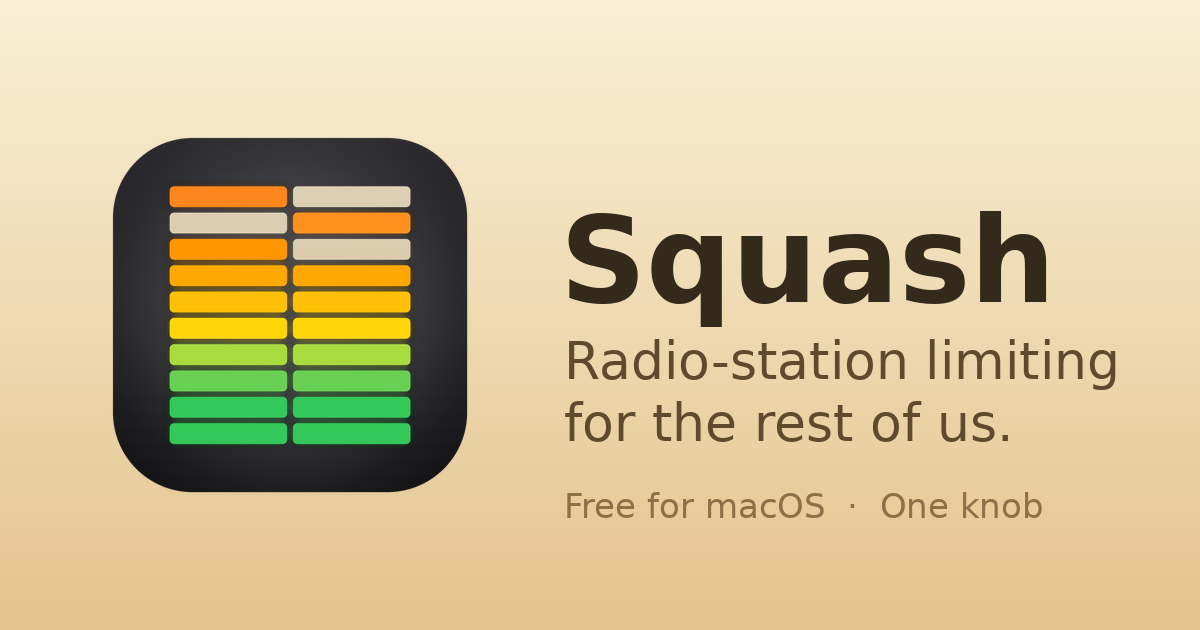
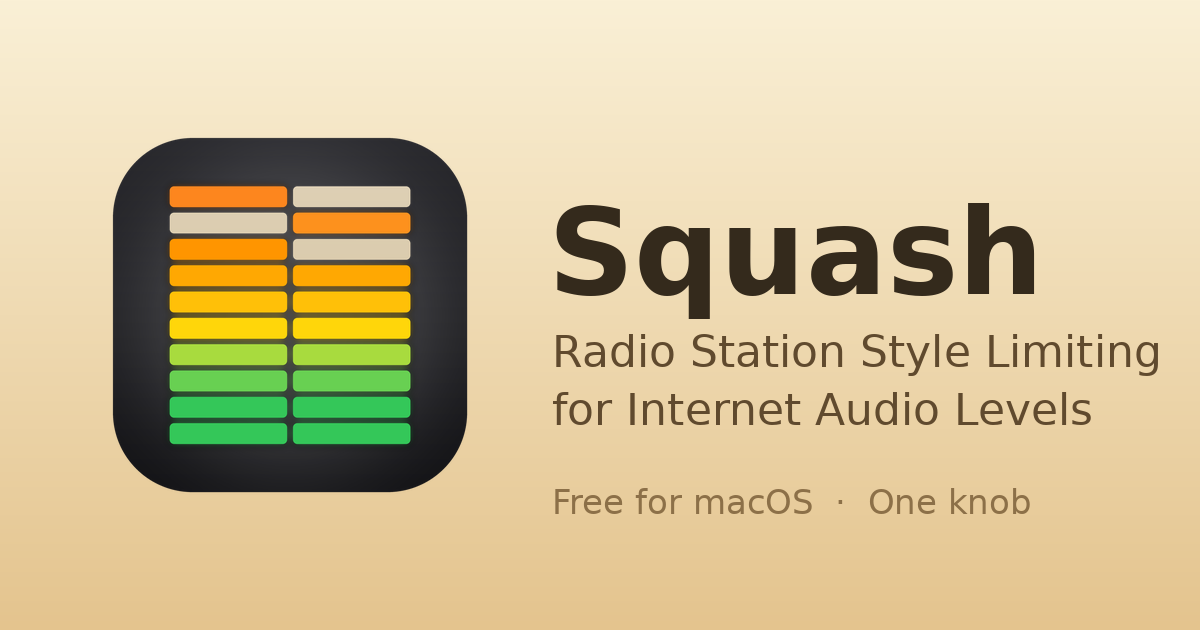
Add files via upload

Changed region(s): [[0.4625, 0.3016, 0.9867, 0.7238], [0.4625, 0.754, 0.8633, 0.8444]]

diff --git a/index.html b/index.html
@@ -3,10 +3,10 @@
 <head>
 <meta charset="utf-8">
 <meta name="viewport" content="width=device-width, initial-scale=1">
-<title>Squash — radio-station limiting for the rest of us</title>
-<meta name="description" content="Squash is a free one-knob limiter for your Mac's system audio. It holds loud DJs, quiet interviews and blaring station IDs at one steady, comfortable level.">
-<meta property="og:title" content="Squash — radio-station limiting for the rest of us">
-<meta property="og:description" content="A free one-knob limiter for your Mac's system audio. One steady, comfortable level for everything you listen to.">
+<title>Squash — Radio Station Style Limiting for Internet Audio Levels</title>
+<meta name="description" content="Squash is a free limiter for your Mac's system audio. It helps control loud DJs, quiet interviews and blaring station IDs at a steady, comfortable level.">
+<meta property="og:title" content="Squash — Radio Station Style Limiting for Internet Audio Levels">
+<meta property="og:description" content="Squash is a free limiter for your Mac's system audio. It helps control loud DJs, quiet interviews and blaring station IDs at a steady, comfortable level.">
 <meta property="og:type" content="website">
 <meta property="og:image" content="https://jgirgus.github.io/squash/og-image.png">
 <meta name="twitter:card" content="summary_large_image">
@@ -79,19 +79,17 @@
   <header>
     <img src="squash-icon.png" alt="The Squash app icon: two stereo meter bars, green rising to orange">
     <h1>Squash</h1>
-    <p class="tagline">Radio-station limiting for the rest of us.</p>
+    <p class="tagline">Radio Station Style Limiting for Internet Audio Levels</p>
     <a class="download" href="https://github.com/jgirgus/squash/releases/latest/download/Squash.zip">Download Squash</a>
     <p class="meta">Free &middot; macOS 14.2 or later &middot; Apple Silicon &amp; Intel &middot; Version 1.0</p>
   </header>
 
   <section>
     <h2>What it does</h2>
-    <p>Radio is mixed for radio stations, not for your ears: the music sits
-    at one level, then the DJ comes in twice as loud and the station ID
-    tries to take your head off. Squash listens to <em>all</em> of your
-    Mac&rsquo;s audio and holds it at one steady, comfortable level &mdash;
-    the same trick a broadcast limiter does at the station, running on
-    your machine instead. One knob. No wrong answers.</p>
+    <p>Squash is a free limiter for your Mac&rsquo;s system audio. It helps
+    control loud DJs, quiet interviews and blaring station IDs at a steady,
+    comfortable level &mdash; the same trick a broadcast limiter does at the
+    station, running on your machine instead. One knob. No wrong answers.</p>
   </section>
 
   <section>
